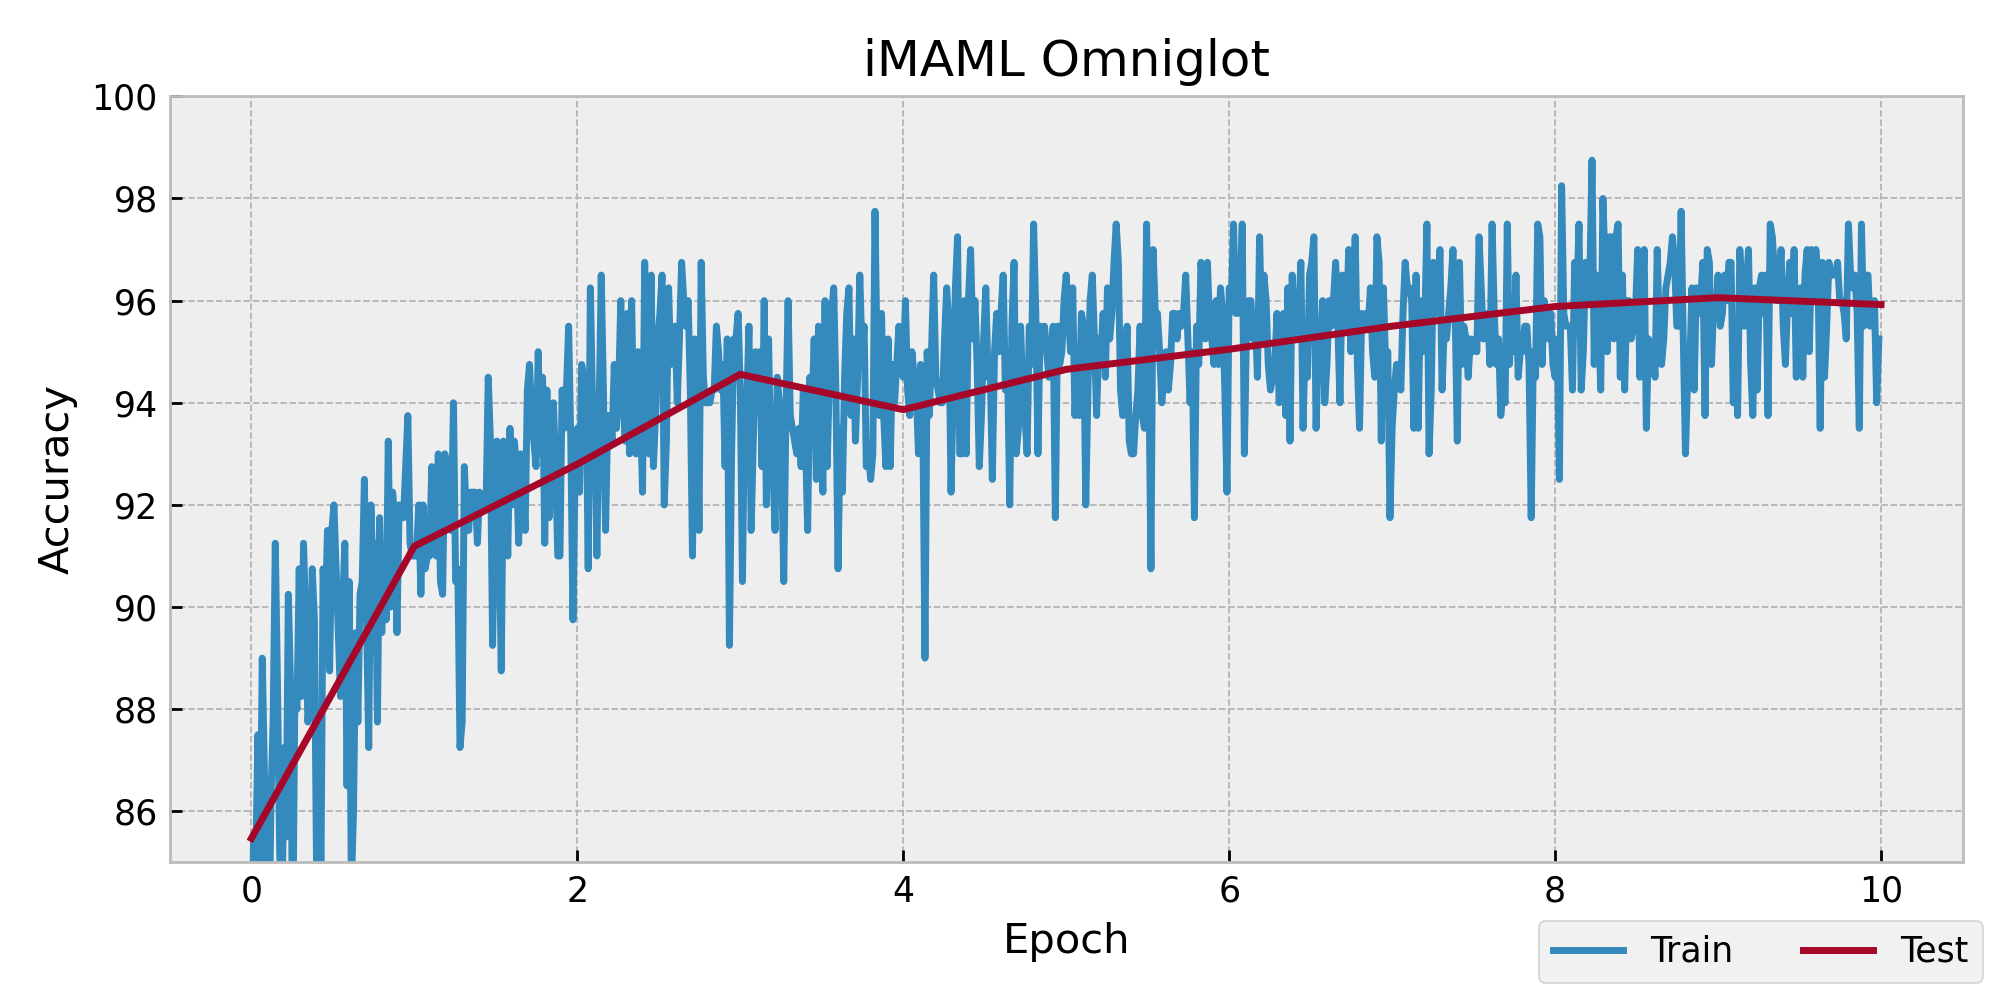
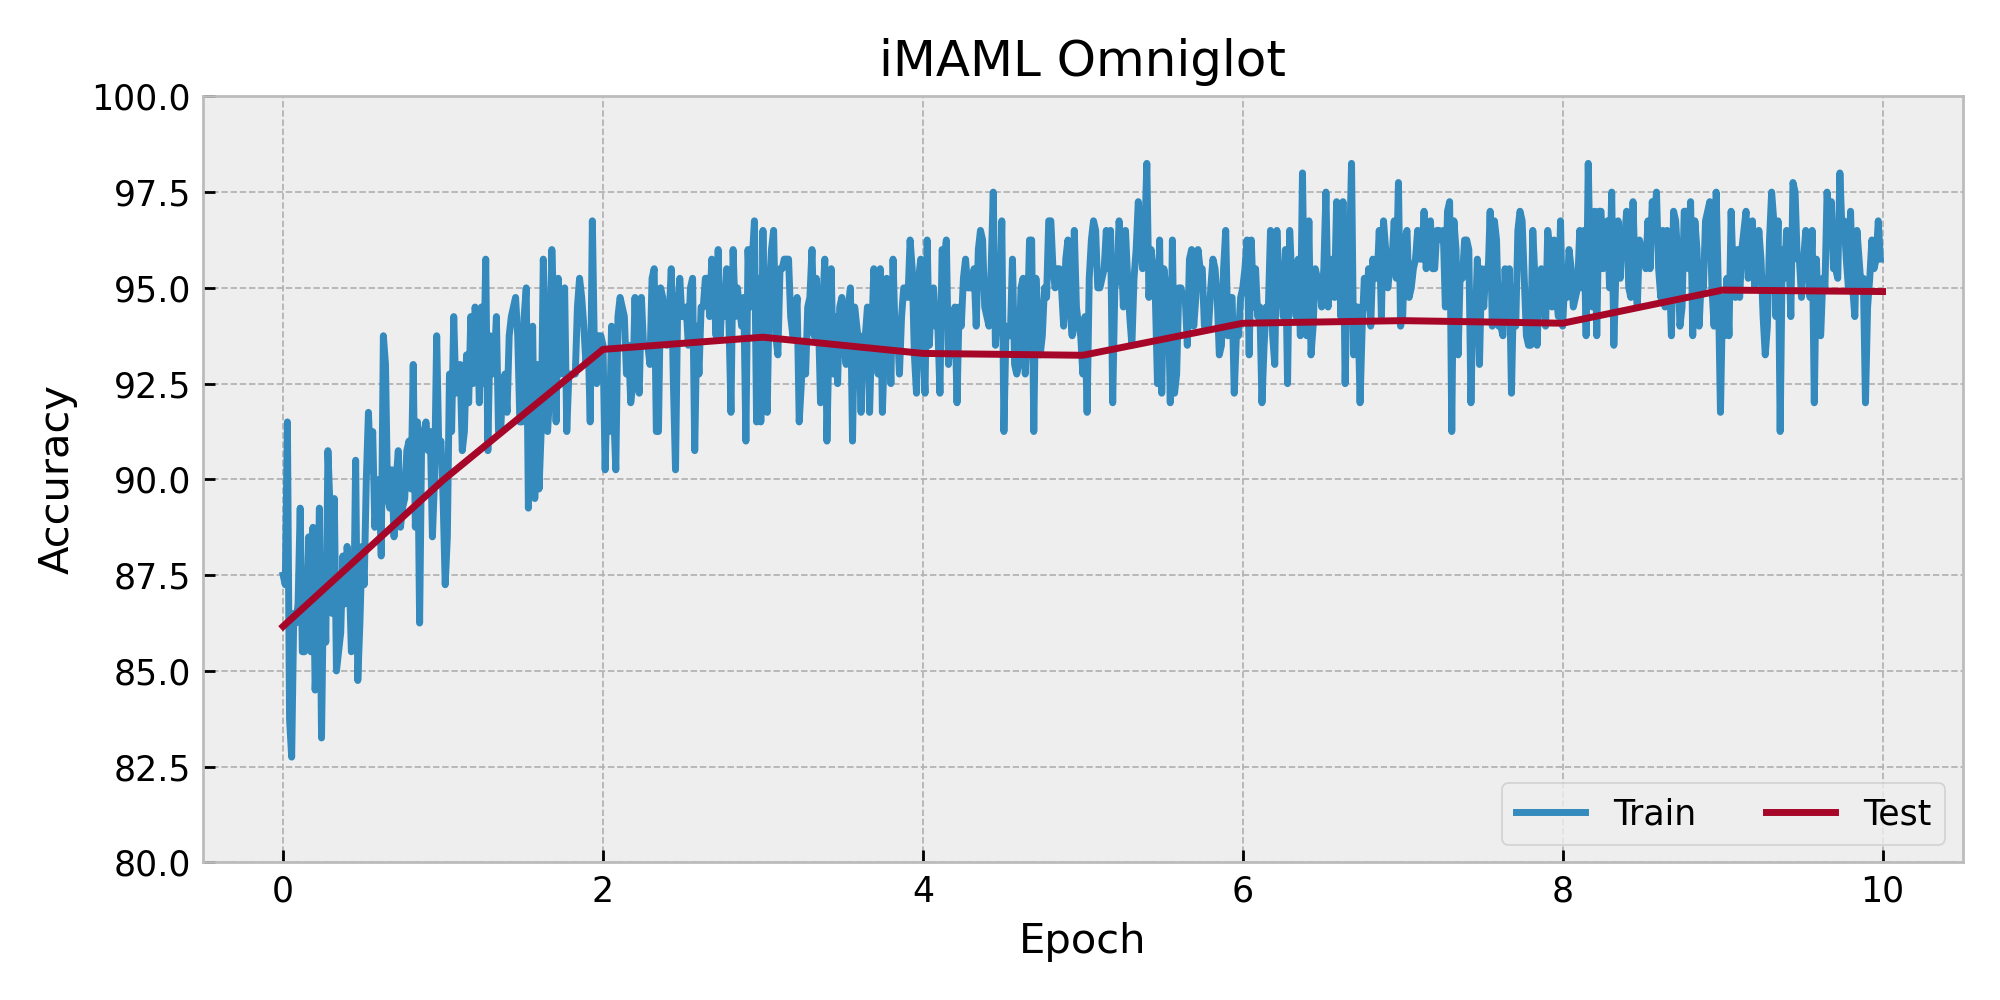
chore: update results

diff --git a/examples/iMAML/imaml_omniglot.py b/examples/iMAML/imaml_omniglot.py
@@ -69,7 +69,7 @@ def main():
     rng = np.random.default_rng(args.seed)
 
     # Set up the Omniglot loader.
-    device = torch.device('cuda:0')
+    device = torch.device('cuda') if torch.cuda.is_available() else torch.device('cpu')
     db = OmniglotNShot(
         '/tmp/omniglot-data',
         batchsz=args.task_num,
@@ -98,13 +98,14 @@ def main():
         nn.Flatten(),
         nn.Linear(64, args.n_way),
     ).to(device)
+
     # We will use Adam to (meta-)optimize the initial parameters
     # to be adapted.
     net.train()
-
     fnet, params = functorch.make_functional(net)
     meta_opt = torchopt.adam(lr=1e-3)
     meta_opt_state = meta_opt.init(params)
+
     log = []
     test(db, [params, fnet], epoch=-1, log=log, args=args)
     for epoch in range(10):
@@ -160,8 +161,8 @@ def train(db, net, meta_opt_and_state, epoch, log, args):
             # Update the model's meta-parameters to optimize the query
             # losses across all of the tasks sampled in this batch.
             # qry_loss = qry_loss / task_num  # scale gradients
-            meta_grad = torch.autograd.grad(qry_loss / task_num, params)
-            meta_updates, meta_opt_state = meta_opt.update(meta_grad, meta_opt_state)
+            meta_grads = torch.autograd.grad(qry_loss / task_num, params)
+            meta_updates, meta_opt_state = meta_opt.update(meta_grads, meta_opt_state)
             params = torchopt.apply_updates(params, meta_updates)
             qry_acc = (qry_logits.argmax(dim=1) == y_qry[i]).sum().item() / querysz
 
@@ -318,6 +319,7 @@ def plot(log):
     # Generally you should pull your plotting code out of your training
     # script but we are doing it here for brevity.
     df = pd.DataFrame(log)
+
     fig, ax = plt.subplots(figsize=(8, 4), dpi=250)
     train_df = df[df['mode'] == 'train']
     test_df = df[df['mode'] == 'test']
@@ -325,17 +327,14 @@ def plot(log):
     ax.plot(test_df['epoch'], test_df['acc'], label='Test')
     ax.set_xlabel('Epoch')
     ax.set_ylabel('Accuracy')
-    ax.set_ylim(85, 100)
+    ax.set_ylim(80, 100)
     ax.set_title('iMAML Omniglot')
-    fig.legend(ncol=2, loc='lower right')
+    ax.legend(ncol=2, loc='lower right')
     fig.tight_layout()
     fname = 'imaml-accs.png'
     print(f'--- Plotting accuracy to {fname}')
     fig.savefig(fname)
     plt.close(fig)
-
-
-
 
 
 if __name__ == '__main__':

diff --git a/examples/iMAML/README.md b/examples/iMAML/README.md
@@ -1,6 +1,6 @@
 # implicit MAML few-shot Omniglot classification-examples
 
-Code on implicit MAML few-shot Omniglot classification in paper [Meta-learning with implicit gradients](https://arxiv.org/abs/1909.04630) using TorchOpt. We use `MetaSGD` as the inner-loop optimizer.
+Code on implicit MAML few-shot Omniglot classification in paper [Meta-Learning with Implicit Gradients](https://arxiv.org/abs/1909.04630) using TorchOpt. We use `torchopt.sgd` as the inner-loop optimizer.
 
 ## Usage
 
@@ -14,5 +14,5 @@ python3 imaml_omniglot.py --inner_steps 5
 The figure illustrate the experimental result.
 
 <div align=center>
-  <img src="./imaml-accs.png" width="450" height="325" />
+  <img src="./imaml-accs.png" width="800" />
 </div>
